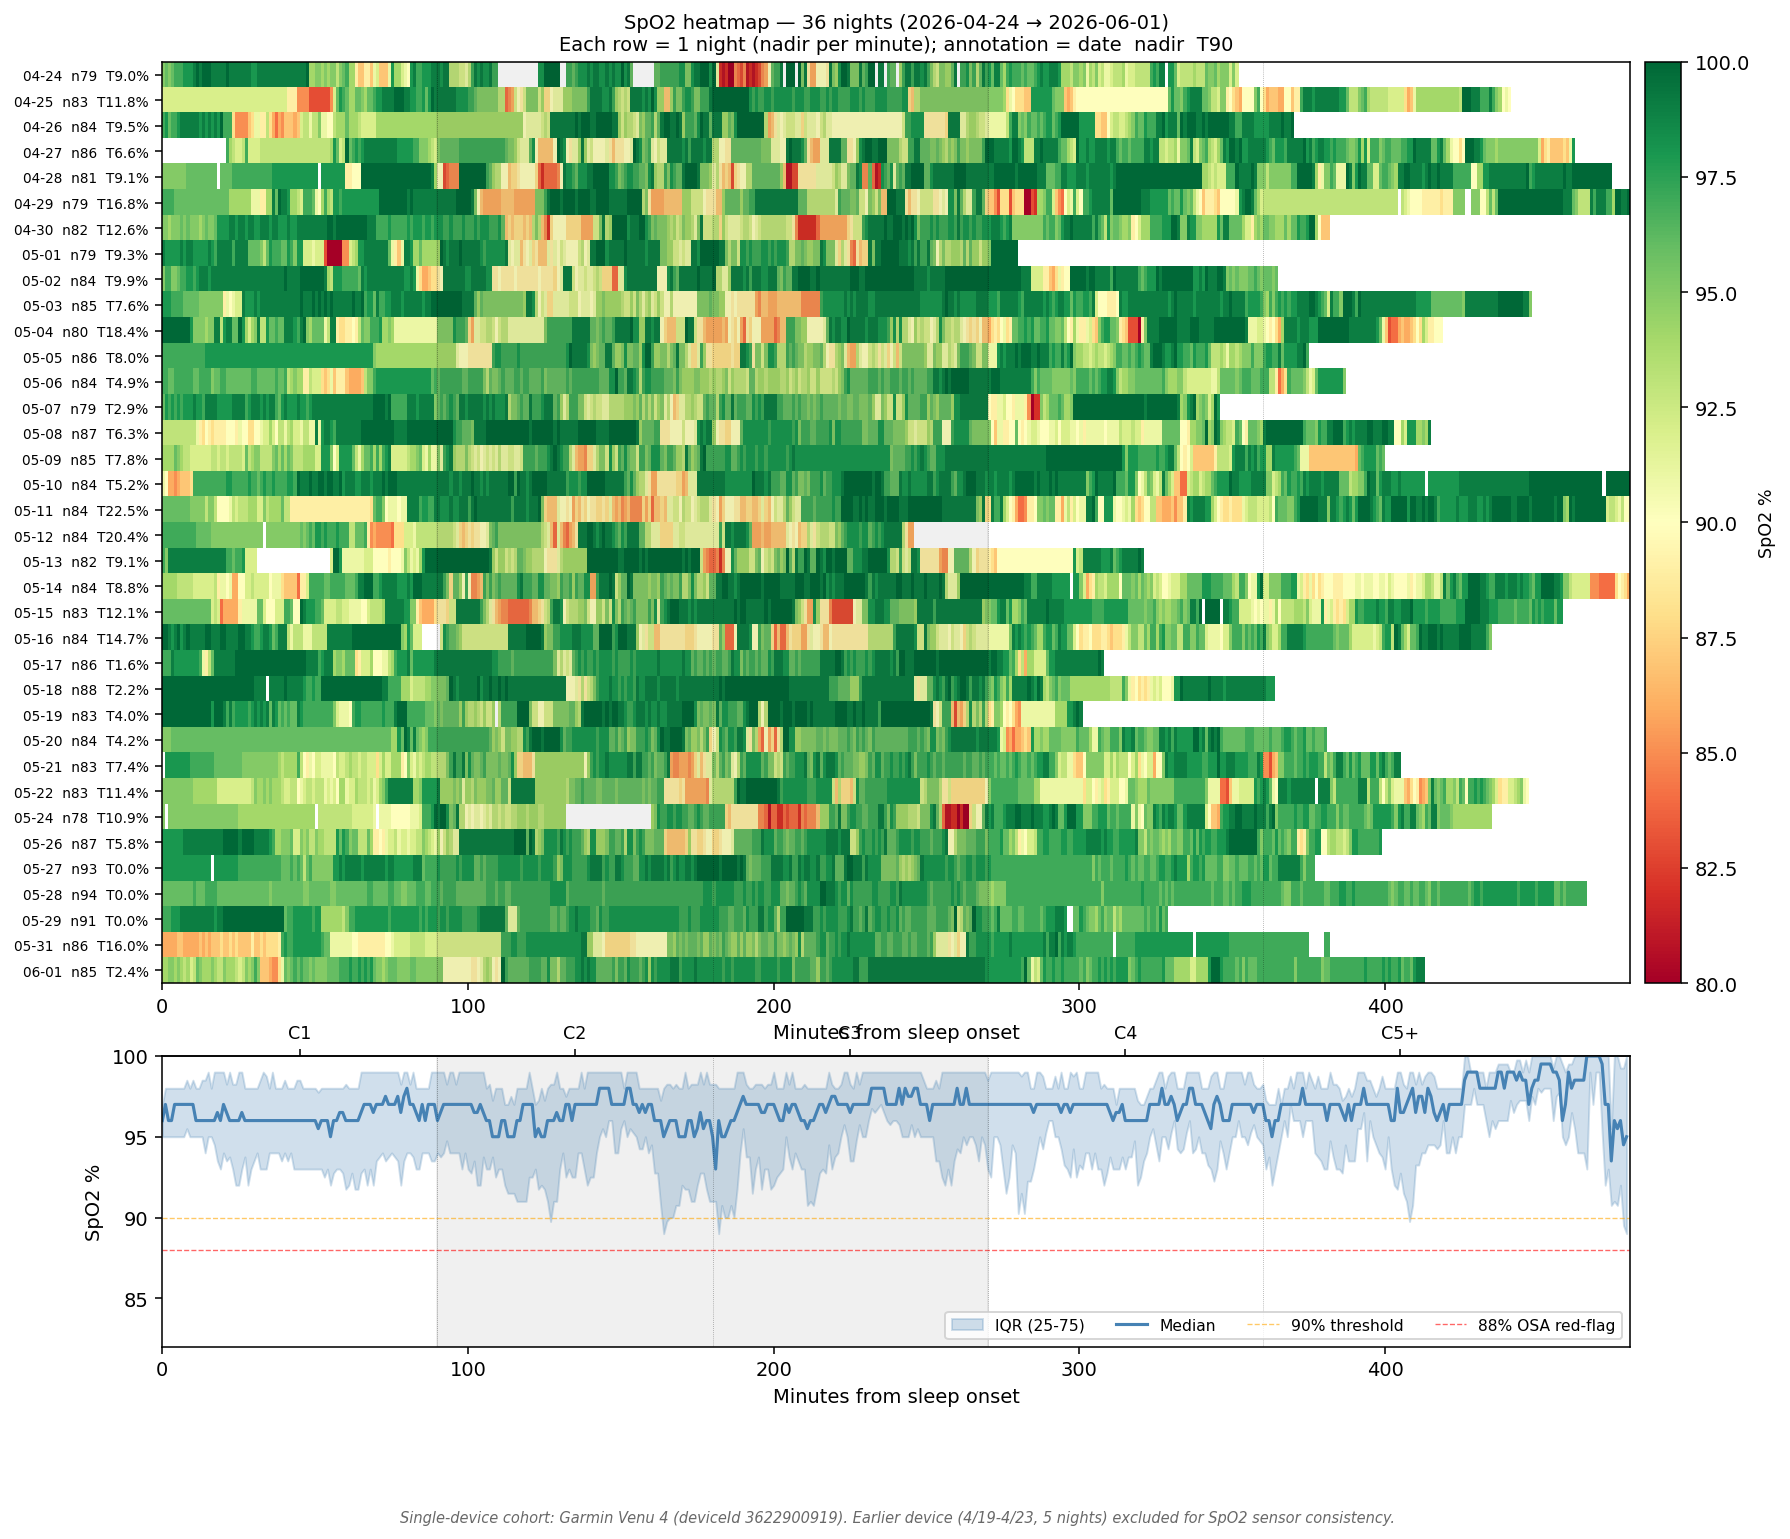
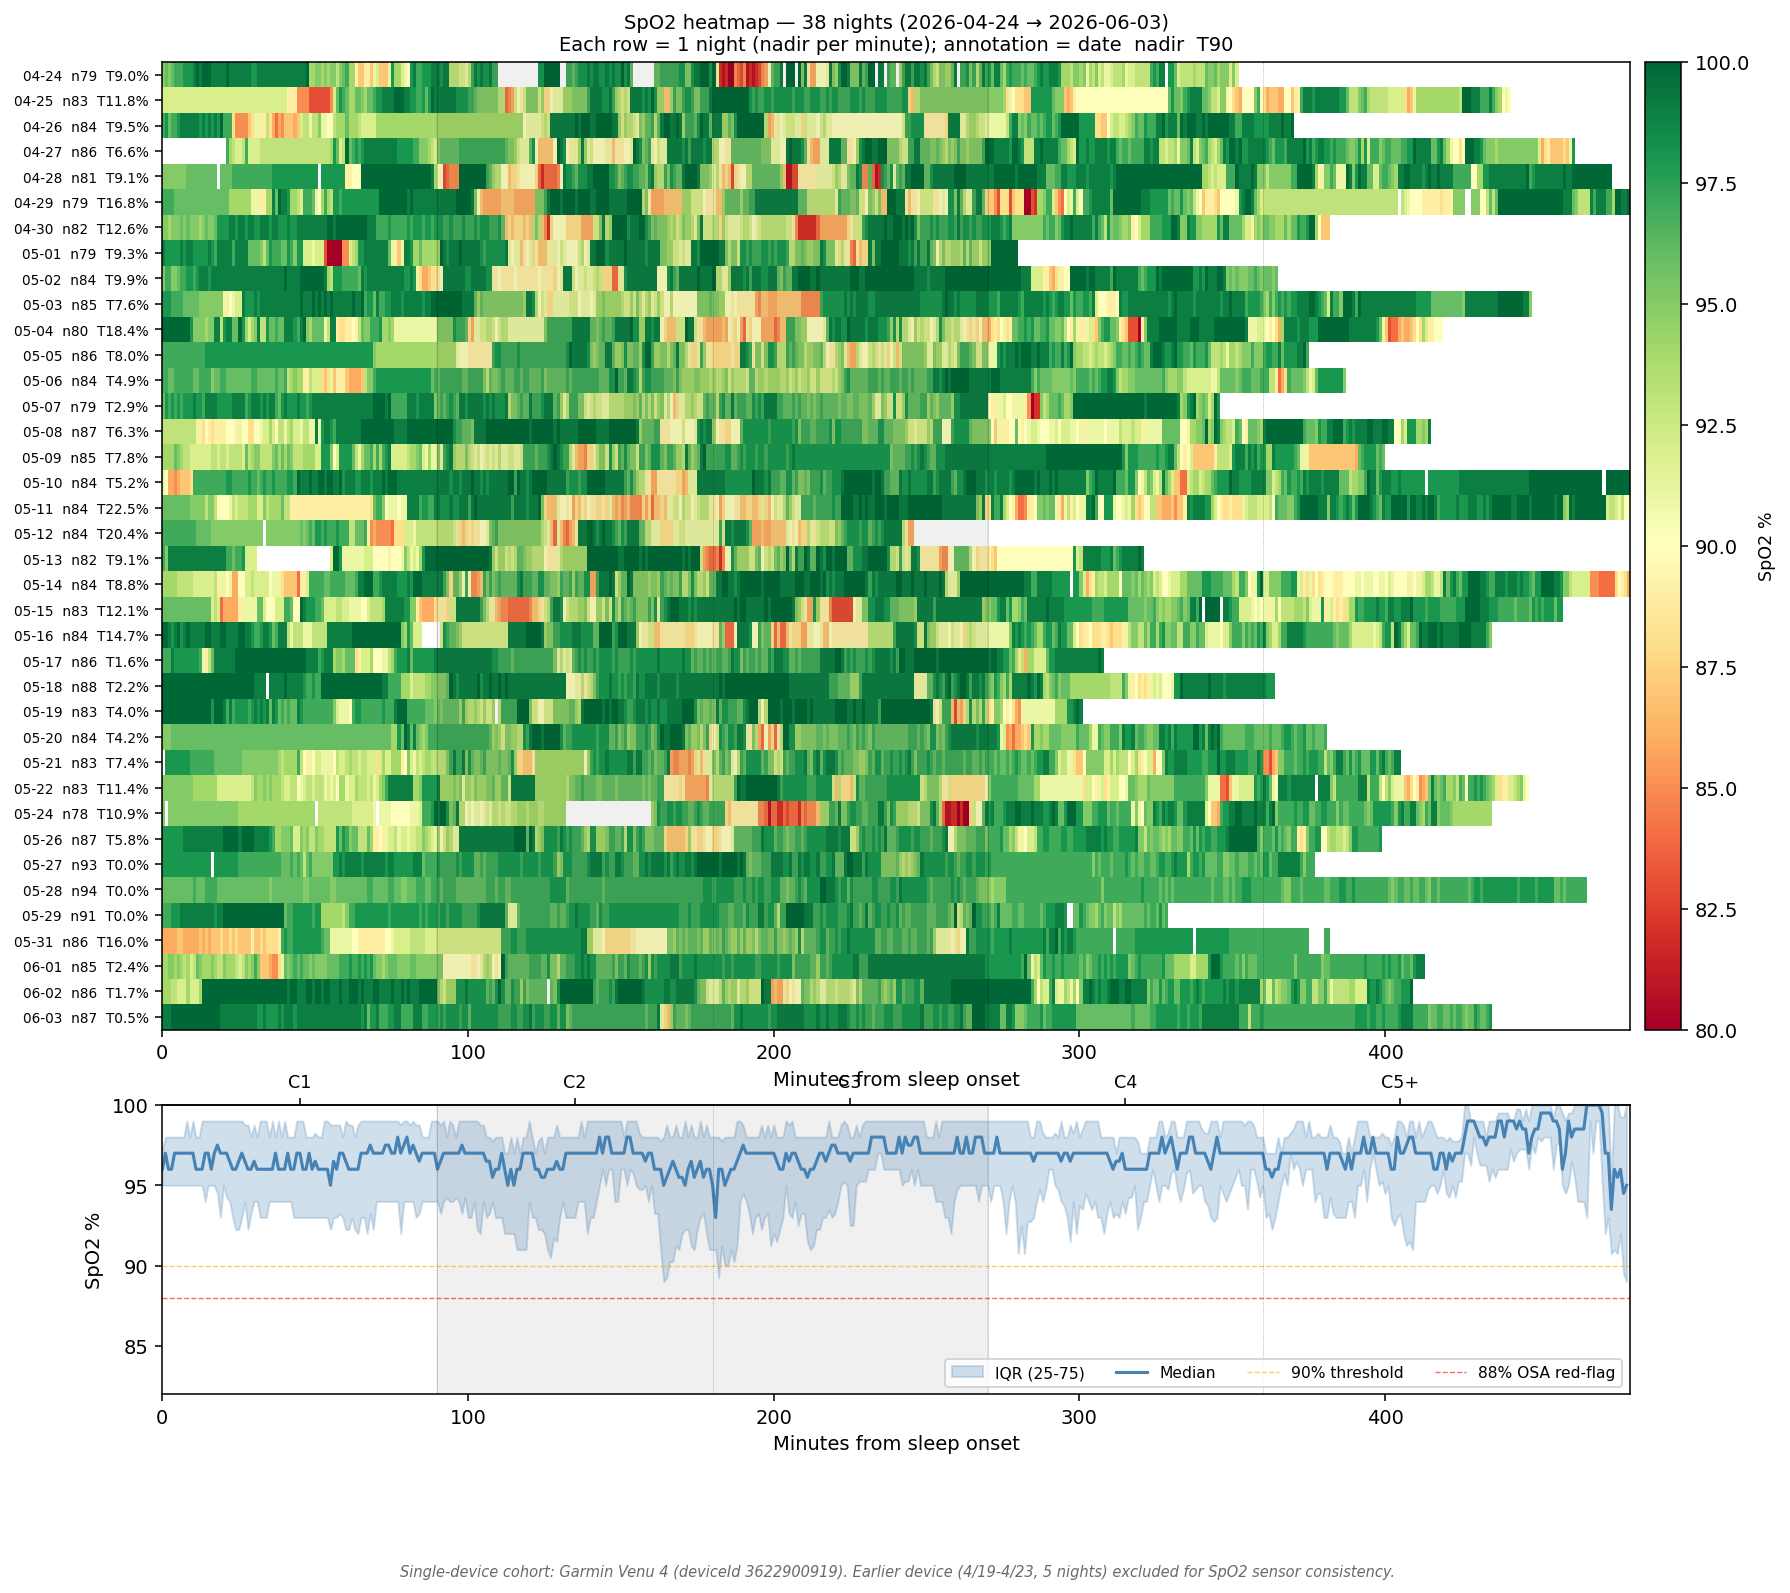
daily: 2026-06-03 健康紀錄
- 體重 67.2kg / 體脂 18.8% / 內臟脂肪 9.0
- BP 113/70/65；Sleep Score 79、BB 53、主觀 3
- SpO2 nadir 87%（T90 0.5%，43 晚第 4 佳）；連 2 晚 <88%
- 昨日飲水 2.5L 回寫 Garmin
- 更新 weekly W23、dashboard、data.js、月份歸檔

diff --git a/data.js b/data.js
@@ -17,8 +17,8 @@ window.HC_DATA = {
     lede:    { en: "Sleep, BP, lipids, uric acid — one shared metabolic root. Lifestyle stacks first; medication only after lifestyle plateaus.",
                zh: "睡眠、血壓、血脂、尿酸——共享同一個代謝根源。生活方式介入優先，等到效果平台期再考慮藥物。" },
     progressLbl: { en: "Weight progress · 70 → 65 kg", zh: "體重進度 · 70 → 65 公斤" },
-    progressMeta: { en: "Day 77 · 67.3 kg · Sat official (5/23)", zh: "第 77 天 · 67.3 公斤 · 週六正式（5/23）" },
-    startDate: { en: "Start date · Mar 17, 2026 · Last sync 6/1", zh: "起始日期 · 2026 年 3 月 17 日 · 最後同步 6/1" },
+    progressMeta: { en: "Day 79 · 67.3 kg · Sat official (5/23)", zh: "第 79 天 · 67.3 公斤 · 週六正式（5/23）" },
+    startDate: { en: "Start date · Mar 17, 2026 · Last sync 6/3", zh: "起始日期 · 2026 年 3 月 17 日 · 最後同步 6/3" },
     startWeight: 70,
     targetWeight: 65,
     currentWeight: 67.3,
@@ -47,13 +47,13 @@ window.HC_DATA = {
     {
       sys: "heart", name: { en: "Blood Pressure", zh: "血壓" },
       val: "115/67", unit: "mmHg",
-      delta: { en: "W22 weekly avg (4 days) · target met (<130) · last 119/70 (6/1)", zh: "W22 週均（4 天）· 已達標 (<130) · 最新 119/70 (6/1)" },
+      delta: { en: "W22 weekly avg (4 days) · target met (<130) · last 113/70 (6/3)", zh: "W22 週均（4 天）· 已達標 (<130) · 最新 113/70 (6/3)" },
       cadence: { en: "Daily · weekly avg", zh: "每日 · 週均" },
       status: "ok",
     },
     {
       sys: "sleep", name: { en: "Sleep Score", zh: "睡眠分數" },
-      val: "80", unit: "Garmin",
+      val: "79", unit: "Garmin",
       delta: { en: "5/4 · OSA flag: T90 18.4% (severe)", zh: "5/4 · OSA 紅旗：T90 18.4%（重度）" },
       cadence: { en: "Daily · Garmin", zh: "每日 · Garmin" },
       status: "warn",
@@ -929,14 +929,14 @@ window.HC_DATA = {
   tracker: {
     // [SBP, DBP] — gaps filled with prior reading
     bp: [
-      [119,76], [119,76], [113,69], [113,69], [113,69], [123,72], [113,72], [116,66], [112,70], [117,66], [117,66], [117,66], [114,67], [119,70],
+      [113,69], [113,69], [113,69], [113,69], [123,72], [113,72], [116,66], [112,70], [117,66], [117,66], [117,66], [114,67], [119,70], [113,70],
     ],
     // daily weight (kg)
-    weight: [68.7, 68.6, 68.3, 68, 67.6, 67.3, 67.3, 68, 68.2, 67.6, 67.1, 66.8, 67, 67.2],
+    weight: [68.6, 68.3, 68, 67.6, 67.3, 67.3, 68, 68.2, 67.6, 67.1, 66.8, 67, 67.2, 67.2],
     // Garmin Sleep Score
-    sleep:  [65, 64, 65, 74, 80, 49, 80, 65, 70, 75, 76, 66, 79, 80],
+    sleep:  [64, 65, 74, 80, 49, 80, 65, 70, 75, 76, 66, 79, 80, 79],
     // Body Battery waking
-    bb:     [48, 62, 54, 61, 56, 34, 59, 55, 53, 64, 59, 55, 69, 71],
+    bb:     [62, 54, 61, 56, 34, 59, 55, 53, 64, 59, 55, 69, 71, 53],
     // SpO2 nightly nadir % (last 14 days, parallel to bp/weight/sleep/bb).
     // Earlier nights null until sync_data_js.py backfills; banner only uses trailing values.
     spo2Nadir: [null, null, null, null, null, 84, 79, 87, 85, 84, 84, 86, 82, 84],

diff --git a/reviews/daily/2026-06-03.md b/reviews/daily/2026-06-03.md
@@ -1,0 +1,99 @@
+# 晨間健康紀錄 — 2026-06-03
+
+*3 分鐘。起床後立即完成。記錄，不分析。*
+
+---
+
+## 體重 / 體組成
+
+**今日：67.2 kg**
+**體脂率：18.8 %**
+**內臟脂肪等級：9.0**
+**腰圍 (WHO midpoint)：— cm**（最下肋骨下緣 + 髂嵴頂端兩點水平中點環繞，通常在肚臍上方 2-5 cm；**與健檢歷史可比**；目標維持 ≤ 83、推進至 < 80 cm）
+**腰圍 (最大腹圍)：— cm**（自然站立、吐氣末、不收腹，軟尺上下移動找最大讀數；通常在肚臍 0 至 -4 cm；**對內臟脂肪變化最敏感**）
+
+*每週六早晨為正式體重紀錄（排尿後、進食前；連 5 個工作日後、週末大餐前的真實低點）。其他日可選填。*
+*腰圍每日量（起床排尿後、進食前）。量兩個位置（WHO + max），方向應一致；若差距 > 3 cm 持續，考慮以 max 為主追蹤指標。*
+*WHO midpoint：科學標準，國健署 / 健檢 / metabolic syndrome 診斷用；最大腹圍：內臟脂肪 visceral fat correlation 最強。*
+
+---
+
+## 血壓（晨間）
+
+*起床後 1 小時內，上完廁所、進食前。坐下安靜 5 分鐘，連量兩次取第二次。*
+
+| 次數 | 收縮壓 | 舒張壓 | 心率 |
+|------|--------|--------|------|
+| 第一次 | | | |
+| 第二次 | 113 | 70 | 65 |
+
+---
+
+## 睡眠狀態
+
+**Garmin 偵測入睡：** 22:02
+**實際上床：**
+**實際起床：** 05:17
+**中途醒來：** 無（0 次）
+**Garmin Sleep Score：** 79 / 100
+**Garmin Body Battery 起床值：** 53
+**主觀恢復感：** 3 / 5（1=極度疲憊, 5=精力充沛）
+**入睡 latency：**（自動估算）
+
+### SpO2 夜間最低（7 晚趨勢）
+
+| 日期 | -6 | -5 | -4 | -3 | -2 | -1 | 今晨 |
+|------|----|----|----|----|----|----|------|
+| 日期 | 05-28 | 05-29 | 05-30 | 05-31 | 06-01 | 06-02 | 06-03 |
+| 最低 % | 92 | 91 | 88 | 86 | 89 | 86 | 87 |
+
+**今晨日均 SpO2：** 97.0%
+**< 88% 連續晚數：** 2（OSA 紅旗門檻：連 3 晚 < 88% → 強烈建議 PSG）
+
+**SpO2 全夜圖（含 hypnogram 條帶）：** ![spo2](spo2/spo2_desat_2026-06-03.png)
+**SpO2 趨勢圖：** ![trend](spo2/spo2_desat_trend.png)
+**SpO2 全夜 Heatmap（28+ 晚 Venu 4 cohort）：** ![heatmap](spo2/spo2_heatmap_all_nights.png)
+**SpO2 × 睡眠分期 7 晚疊圖：** ![hypno7](spo2/spo2_hypnogram_7night_2026-06-03.png)
+
+*Sleep Score < 65 或 Body Battery < 50 連續三天 → 重新檢視睡眠修復方案。*
+
+---
+
+## 昨日回顧
+
+**實際飲水量：** 2.5 L（目標 ≥ 2.5L；高尿酸最佳 2.8–3.0L；17:00 前完成 60-70%）
+**昨日活動消耗：** 161 kcal（主動 137 + BMR；2 段 cycling 共 18.5 min）
+**昨日 Na / K / Na-K ratio：** — （無昨日飲食紀錄）
+
+---
+
+## 身體信號
+
+*任何張力、疼痛、疲勞、異常 — 或「清」。記位置、性質、強度。*
+
+| 部位 | 性質 | 強度 (0-10) |
+|------|------|-------------|
+| — | 清 | 0 |
+
+---
+
+## 今日計畫速記
+
+- [ ] 飲水目標：2.5 L（建議 2.5–3.0L；錨點 09:30 ≥1.0L / 13:30 ≥2.0L / 17:00 截止 2.5L）
+- [ ] 補充品（核心，2026-05-11 v2）：
+  - 早餐（06:00）：D3 2000 IU + **K2 MK-7 180 mcg** + **L-Citrulline 4 g** + 益生菌
+  - 午餐前 30 min：Psyllium 5 g + 350 mL 水
+  - 晚餐前 30 min：Psyllium 5 g + 350 mL 水
+  - 晚餐後：魚油 ×4（拆 18:30 ×2 + 19:30 ×2）
+  - 睡前（21:00）：鎂甘胺酸 400 mg + 酸櫻桃 1000-2000 mg + **Glycine 純粉 3 g**
+  - 茶飲：洛神花 ×2 杯（早 + 14:00 前）
+  - 食物層：南瓜籽 30 g（15:30）+ **菇蕈 100-130 g/天**（午 30-50 + 晚 50-80）
+  - ⏸ 待定：NAC 600 mg × 2（待 PSG 結果）
+- [ ] 運動（17:00 固定）：走路（Zone 2）
+- [ ] 活動度/伸展（09:30 + 20:30 兩次錨點）
+- [ ] Wind-down（20:00 燈光降 + 螢幕濾鏡，液體截止）
+- [ ] 上床 21:30 / 熄燈 22:00（TST 目標 7h+）
+
+---
+
+*Filed: reviews/daily/2026-06-03.md*

diff --git a/reviews/weekly/2026-W23.md b/reviews/weekly/2026-W23.md
@@ -31,9 +31,9 @@
 
 |  | 一 | 二 | 三 | 四 | 五 | 六 | 日 |
 |--|----|----|----|----|----|----|-----|
-| 體重 (kg) | 67.2 | | | | | | |
-| 體脂率 (%) | 18.6 | | | | | | |
-| 內臟脂肪 | 9.0 | | | | | | |
+| 體重 (kg) | 67.2 | | 67.2 | | | | |
+| 體脂率 (%) | 18.6 | | 18.8 | | | | |
+| 內臟脂肪 | 9.0 | | 9.0 | | | | |
 | **腰圍 WHO (cm)** | 83 | | | | | | |
 | **腰圍 max (cm)** | | | | | | | |
 
@@ -53,7 +53,7 @@
 |------|--------|--------|------|
 | 06-01 (一) | 119 | 70 | 69 |
 | 06-02 (二) | | | |
-| 06-03 (三) | | | |
+| 06-03 (三) | 113 | 70 | 65 |
 | 06-04 (四) | | | |
 | 06-05 (五) | | | |
 | 06-06 (六) | | | |
@@ -71,7 +71,7 @@
 |------|------|------|--------|-------------|--------------|----------|
 | 06-01 (一) | 22:39 | 05:32 | 無 | 80 | 71 | 3 |
 | 06-02 (二) | | | | | | |
-| 06-03 (三) | | | | | | |
+| 06-03 (三) | 22:02 | 05:17 | 無 | 79 | 53 | 3 |
 | 06-04 (四) | | | | | | |
 | 06-05 (五) | | | | | | |
 | 06-06 (六) | | | | | | |
@@ -105,7 +105,7 @@
 
 | 信號（部位+性質） | 出現天數 | 平均強度 | 趨勢（↑↓→） | 備註 |
 |-------------------|----------|----------|-------------|------|
-| 清（無信號） | 1 | 0 | → | 06-01 |
+| 清（無信號） | 2 | 0 | → | 06-01, 06-03 |
 
 **反覆出現（≥ 3 天）：** 無
 
@@ -129,6 +129,7 @@
 | 日期 | 運動內容（含組數/時間） |
 |------|------------------------|
 | 06-01 (一) | walk（Zone 2 走路） |
+| 06-03 (三) | walk（Zone 2 走路） |
 
 ---
 

diff --git a/reports/daily-garmin/2026-06-02.md b/reports/daily-garmin/2026-06-02.md
@@ -1,0 +1,35 @@
+# Garmin 每日摘要 — 2026-06-02
+
+## 睡眠
+- 就寢：22:27｜起床：05:16
+- 總時長：5h 52m
+- 深眠：79 分｜REM：27 分
+- Sleep Score：65
+- Body Battery 起床值：55
+
+## 靜息心率
+- RHR：61.0 bpm
+
+## 壓力
+- 日均：32
+
+## 步數
+- 總計：8,628
+
+## SpO2
+- 日均：97.0%
+- 最低：86%
+
+## 活動
+| 時段 | 類型 | 距離 | 時長 | 平均 HR | 最大 HR | 主動 kcal | 含 BMR |
+|------|------|------|------|---------|---------|-----------|--------|
+| 08:59 | cycling | 1.16 km | 9.3 min | 130 | 148 | 75 | 87 |
+| 17:11 | cycling | 1.43 km | 9.2 min | 119 | 142 | 62 | 74 |
+| **小計** | 2 段 | **2.59 km** | **18.5 min** | — | — | **137** | **161** |
+
+## 飲水
+- 實際：0.00 L
+- 目標：2.27 L
+- 運動流汗耗水：0.27 L
+
+_Source: data/garmin/2026-06-02.json (gitignored)_

diff --git a/reports/daily-garmin/2026-06-03.md b/reports/daily-garmin/2026-06-03.md
@@ -1,0 +1,27 @@
+# Garmin 每日摘要 — 2026-06-03
+
+## 睡眠
+- 就寢：22:02｜起床：05:17
+- 總時長：6h 52m
+- 深眠：117 分｜REM：86 分
+- Sleep Score：79
+- Body Battery 起床值：53
+
+## 靜息心率
+- RHR：59.0 bpm
+
+## 壓力
+- 日均：23
+
+## 步數
+- 總計：50
+
+## SpO2
+- 日均：97.0%
+- 最低：87%
+
+## 飲水
+- 實際：— （Garmin Connect 未紀錄，請於 check-in 手動輸入）
+- 目標：2.00 L
+
+_Source: data/garmin/2026-06-03.json (gitignored)_
